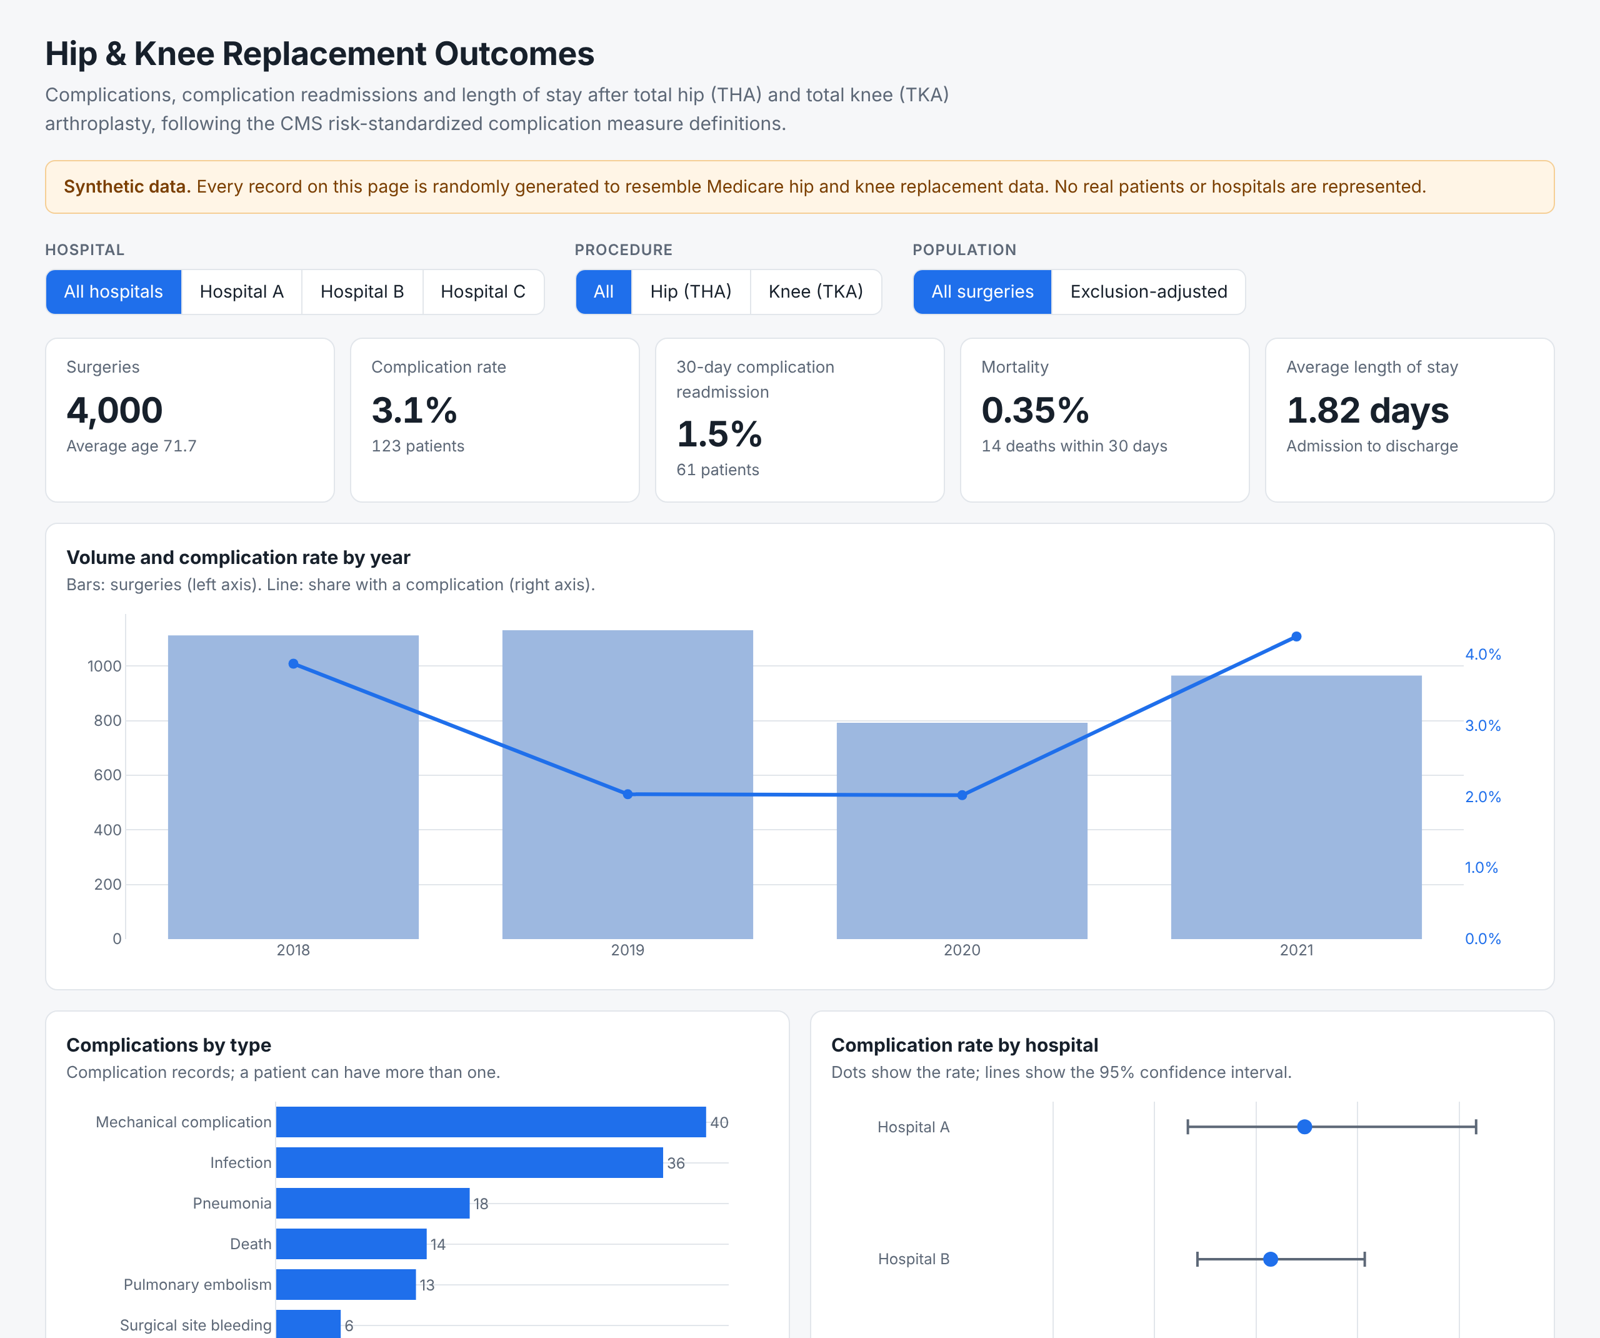
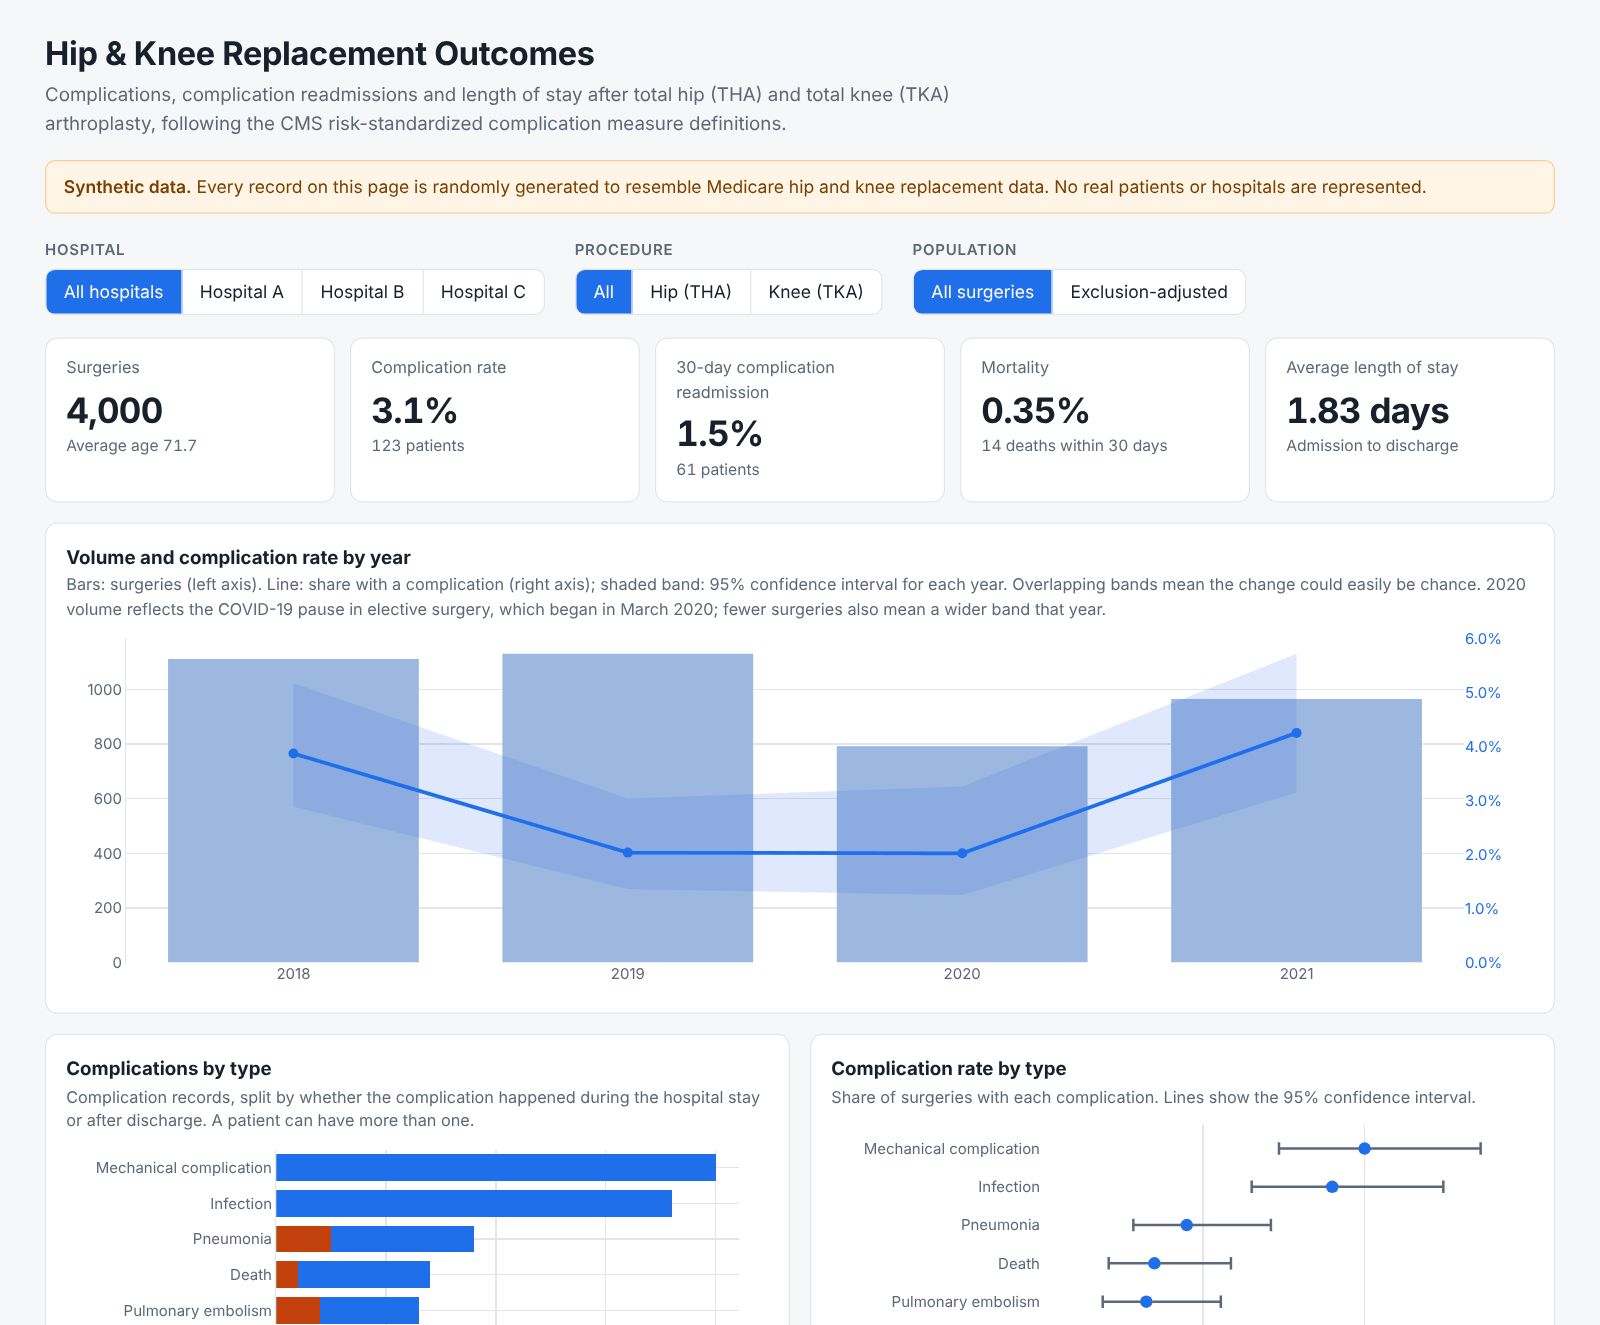
Add a case study, README summary and diagram; correct the per-row claim (#19)
docs/case-study.md (findings, O/E checked against generator truth, sample-size analysis); README At a glance summary, pipeline diagram and current screenshot; corrects the description of the per-row vs per-surgery correction (it overstates complication and readmission rates). Docs only.

Claude-Session: https://claude.ai/code/session_01Ms9PnBJfUpdnrgzwvYKzyC

diff --git a/outcomes/metrics.py b/outcomes/metrics.py
@@ -3,10 +3,11 @@
 Two corrections compared with the original Qlik version:
 
 1. **Rates are per surgery, not per row.** A patient with two complications
-   appears on two rows (the second flagged as an additional record). The
-   Qlik measures counted rows, so those patients inflated the denominator
-   and every rate came out slightly low. Here rows are first collapsed to one
-   row per index stay.
+   appears on two rows (the second flagged as an additional record), and the
+   Qlik measures counted rows. For complication and readmission rates the
+   extra rows add to both numerator and denominator, which overstates the
+   rate; for rates like mortality they add only to the denominator, which
+   understates it. Here rows are first collapsed to one row per index stay.
 2. **"Readmissions" are complication readmissions.** The only readmission
    date in the file is the admit date for a complication, so the measure is
    labelled "30-day complication readmission", not all-cause readmission.

diff --git a/docs/case-study.md b/docs/case-study.md
@@ -1,0 +1,109 @@
+# Case study: rebuilding a hospital outcomes dashboard
+
+What I learned rebuilding my internship's hip and knee replacement dashboard in Python, and the decisions behind it. Every number here comes from the synthetic dataset in this repository. None comes from real patient data.
+
+## The problem
+
+During my internship I built a Qlik Sense dashboard on the data behind the CMS **Risk-Standardized Complication Rate (RSCR)** after total hip (THA) and total knee (TKA) replacement. The RSCR is publicly reported and affects reimbursement, so the question was practical: *which procedures, patient groups and hospitals carry the most complication risk, and where would changes to protocols help most?*
+
+The original app and its data are private. To share the work, I rebuilt the core dashboard in Python on a synthetic dataset with the same structure: 4,000 fictional surgeries at three fictional hospitals, 2018 to 2021. Rebuilding every measure from scratch, with a test for each, turned up problems in the original that I hadn't seen while building it.
+
+## How it fits together
+
+```mermaid
+flowchart LR
+    data[(Discharge file<br/>CSV or Excel)] --> load[load.py<br/>find headers, clean types]
+    load --> checks{quality.py<br/>data checks}
+    checks -- "error" --> stop([Build stops])
+    checks -- "pass" --> stays[metrics.py<br/>one row per surgery]
+    stays --> measures[Every measure for every<br/>hospital × procedure × population]
+    measures --> supp[suppression.py<br/>optional: hide counts 1–10]
+    supp --> page[build.py<br/>one self-contained HTML page]
+    page --> pages[GitHub Pages]
+    page --> aws[S3 + CloudFront<br/>deployed through OIDC]
+```
+
+Every measure is computed in Python ahead of time for all 24 filter combinations, so the page is static: no server, no database, nothing to log in to. The [infrastructure README](../infra/README.md) covers the AWS side.
+
+## Finding 1: count surgeries, not rows
+
+The source file has one row per *complication*, not per surgery. A patient with two complications has two rows. The original measures counted rows, and that distorts every rate, in different directions:
+
+| Rate (synthetic data) | Counting rows | Counting surgeries |
+|---|---|---|
+| Complication rate | 137 ÷ 4,014 = **3.41%** | 123 ÷ 4,000 = **3.08%** |
+| 30-day complication readmission | 68 ÷ 4,014 = **1.69%** | 61 ÷ 4,000 = **1.53%** |
+| Mortality | 14 ÷ 4,014 = **0.349%** | 14 ÷ 4,000 = **0.350%** |
+
+For complications and readmissions, the extra rows land in both the top and the bottom of the fraction, which pushes the rate up. For mortality they only add to the bottom, which pulls it down slightly. The rebuild collapses rows to one per surgery before computing anything.
+
+A note on my own mistake: I first described this correction as "the denominator was inflated, so every rate came out low". Computing it showed the opposite for the headline rate, and I corrected the README. Checking a claim against the data, even one that sounds obviously right, is the habit this project taught me most.
+
+## Finding 2: "readmission" meant something narrower
+
+The only readmission date in the file is the admission date for a *complication*. So the measure is a 30-day **complication** readmission rate, not the CMS all-cause readmission rate, and the dashboard labels it that way.
+
+## Finding 3: four formula errors, prevented by design
+
+Reviewing the original formulas found four more errors:
+- knee-only rates divided by hip admissions
+- an exclusion-adjusted mortality rate that applied the exclusions to the denominator only
+- age calculated at discharge instead of admission
+- age bands with gaps
+
+They had a common cause. The original had a separate hand-written formula for each combination of measure, procedure and population, about 120 in all, and each one was a chance to mistype a filter. The rebuild filters the surgeries once, then computes every rate from that one set, so the top and bottom of a fraction can't disagree. Each error now has a test with a small made-up case where the right answer is known (see the [measure crosswalk](measure-crosswalk.md)).
+
+## Observed rates, and an honest comparison
+
+The CMS rate is *risk-standardized*: a hierarchical model adjusts each hospital for its patients' risk factors, drawn from a year of earlier Medicare claims. This data has none of those, so the dashboard shows **observed** rates and says so on the page.
+
+To compare hospitals more fairly than raw rates allow, it adds an **observed vs expected (O/E)** ratio, adjusted for the two risk factors the data does have: age group and procedure. Because the data is synthetic, I could check it against the truth. The generator sets each hospital's complication risk directly:
+
+| Hospital | Surgeries | Observed | Expected | O/E (95% interval) | True relative risk |
+|---|---|---|---|---|---|
+| A | 661 | 23 | 20.4 | 1.13 (0.71–1.69) | 1.19 |
+| B | 1,749 | 55 | 54.0 | 1.02 (0.77–1.33) | 0.92 |
+| C | 1,590 | 45 | 48.5 | 0.93 (0.68–1.24) | 1.02 |
+
+Every interval contains the true value, so the method works. But the point estimates rank B and C the wrong way round. That isn't a bug: about 120 complications is too few to tell a 10% difference from noise, so the page shows intervals and never a league table.
+
+## How much data a comparison needs
+
+That raised the obvious question: how big a difference *could* this data detect? At a complication rate of about 3%, comparing two groups with 80% power at the usual 5% significance level needs:
+
+| Difference to detect | Surgeries needed per group |
+|---|---|
+| 20% higher risk (3.0% vs 3.6%) | about 13,900 |
+| 50% higher (3.0% vs 4.5%) | about 2,500 |
+| Twice the risk (3.0% vs 6.0%) | about 750 |
+
+Hospital A is generated with about 20% higher risk than average, but it has 661 surgeries, roughly 165 a year. Compared with the other two hospitals combined, the dashboard has only a **14% chance** of detecting a 20% difference. It reaches 80% only once A's risk is about 1.8 times the others'.
+
+This changes how the dashboard should be read. With only a few hundred surgeries a year, a hospital's observed rate is mostly noise. It's why CMS pools three years of data and uses a model that pulls small hospitals toward the national rate. The dashboard can spot a hospital that's dramatically different, and nothing subtler. The right response is to show uncertainty everywhere, which is why every rate on the page has an interval.
+
+## Treating the data as sensitive by default
+
+Although the public version is synthetic, the code is built to be run on a real export, so the safeguards are in the code, not in good intentions:
+- **The build refuses to publish real data.** A build of any file other than the synthetic one can only be written to a git-ignored `private/` folder, and CI rejects any committed spreadsheet.
+- **The build stops on bad data.** Every build runs the quality checks first (discharges before admissions, readmissions dated before discharge, implausible ages, unflagged duplicate rows) and stops if one would make the measures wrong.
+- **Small counts can be hidden.** `--suppress-under 11` applies the CMS rule against publishing counts of 1 to 10, along with anything computed from them.
+- **The AWS data check reports counts only.** The S3-triggered Lambda emails which checks failed and how many rows, never values from the file. A test checks this.
+
+## The synthetic data
+
+The generator is seeded, so every run produces the same 4,000 surgeries. Volumes and rates follow published national Medicare patterns: about 3% complications, length of stay falling each year, and the 2020 pause in elective surgery. It also builds in two relationships a clinical reviewer would expect: complications during the stay lengthen it, and patients under 65 are outside the CMS cohort.
+
+Some patterns are chance. With this seed, the 2019 and 2021 complication rates barely overlap, although the generator has no year effect. Across 12 other seeds the yearly rates average 2.6% to 3.1% with no pattern. I kept the seed rather than pick one that hides the gap, because one 95% interval in twenty misses by chance, and that's worth seeing.
+
+## Limitations
+
+- **No patient identifier.** A surgery is identified by hospital, birth date and stay dates, so two patients with identical values would merge. That's rare, but possible.
+- **Adjustment is limited to what's in the file.** O/E and the age-adjusted odds ratios adjust only for age and procedure, so they can't stand in for the CMS model.
+- **The O/E reference includes the hospital being compared**, which pulls the largest hospital slightly toward 1.0.
+- **Many intervals on one page.** About 1 in 20 will exclude the true value by chance alone.
+
+## What I'd do next
+
+- A **funnel plot** for hospitals: rate against volume, with control limits that narrow as volume grows. It's the standard way to compare providers in healthcare quality work.
+- A **simulation test** that generates many seeds and checks each 95% interval contains the true value about 95% of the time.
+- **Pinned dependencies**, linting and a coverage report in CI.

diff --git a/README.md b/README.md
@@ -8,6 +8,25 @@ An interactive dashboard of complications, complication readmissions and length 
 
 > **All data in this repository is synthetic.** The original dashboard was built in Qlik Sense on de-identified hospital discharge data, which is not included here and never leaves the analyst's computer. This version is rebuilt in Python and runs on a randomly generated dataset with the same structure, so it can be shared publicly. Hospital names, counts and rates on the live page are fictional.
 
+## At a glance
+
+- **What it is:** a rebuild, in Python, of a hospital quality dashboard I built during an internship. It covers complications, readmissions and length of stay after hip and knee replacement, measured against the CMS complication measure.
+- **What the rebuild found:** six issues in the original measures, including counting records instead of surgeries, which overstated the complication rate. Each now has a test. The **[case study](docs/case-study.md)** tells the story, including how much data a hospital comparison actually needs to detect a difference.
+- **How it's built:** every measure is computed ahead of time by a tested Python package (46 tests, 96% coverage). The page is one self-contained HTML file, deployed to GitHub Pages and to AWS (S3 + CloudFront, defined in CDK, deployed through OIDC, security-checked by cdk-nag).
+- **How it treats data:** synthetic data only in public. Real builds can only be written to a git-ignored folder, every build stops on data errors, and small counts can be hidden to meet the CMS rule.
+
+```mermaid
+flowchart LR
+    data[(Discharge file)] --> load[Load and clean]
+    load --> checks{Data-quality<br/>checks}
+    checks -- error --> stop([Build stops])
+    checks -- pass --> stays[One row<br/>per surgery]
+    stays --> measures[Every measure,<br/>every filter]
+    measures --> page[Self-contained<br/>HTML page]
+    page --> pages[GitHub Pages]
+    page --> aws[S3 + CloudFront]
+```
+
 ![Dashboard screenshot](docs/dashboard.png)
 
 ## Background
@@ -43,7 +62,7 @@ Filter by hospital, by procedure (hip or knee), and by population: all surgeries
 
 Rebuilding the dashboard surfaced two issues in the original Qlik measures, both fixed here:
 
-1. **Rates are per surgery, not per row.** A patient with two complications appears on two records. The original measures counted records, which inflated the denominator and understated every rate. Records are now collapsed to one row per index stay first ([`outcomes/metrics.py`](outcomes/metrics.py)).
+1. **Rates are per surgery, not per row.** A patient with two complications appears on two records, and the original measures counted records. For the complication and readmission rates the extra records add to both the top and the bottom of the fraction, which overstates the rate (on the synthetic data, a 3.41% complication rate instead of 3.08%). For rates like mortality they only add to the bottom, which understates it slightly. Records are now collapsed to one row per index stay first ([`outcomes/metrics.py`](outcomes/metrics.py)).
 2. **Readmissions are labelled correctly.** The data only records readmissions *for a complication*, so the measure is "30-day complication readmission", not the CMS all-cause readmission rate.
 
 A later review of the original formulas found four more errors in individual Qlik measures: knee rates with a hip denominator, an exclusion-adjusted mortality rate that applied exclusions to the denominator only, age calculated at discharge instead of admission, and age bands with gaps. None carried over, because the rebuild computes every rate from one filtered set of stays. Each has a test with a small made-up case.
@@ -62,6 +81,7 @@ The rates are observed, not risk-standardized like the published CMS RSCR, which
 | `build.py` | Builds a single self-contained `index.html` |
 | `tests/` | pytest suite: header matching, stay-level counting, 30-day window, filters, original-formula errors, O/E, odds ratios, synthetic data |
 | `docs/measure-crosswalk.md` | Each measure against its CMS definition and Python implementation |
+| `docs/case-study.md` | The analytical story: what the rebuild found, how the methods were checked, and how much data a comparison needs |
 | `docs/glossary.md` | Plain-language definitions of every term on the dashboard |
 | `outcomes/suppression.py` | Optional small-cell suppression (counts of 1 to 10) for builds that will be shared |
 | `outcomes/quality.py`, `scripts/check_data.py` | Data-quality checks to run on a real export before building |
